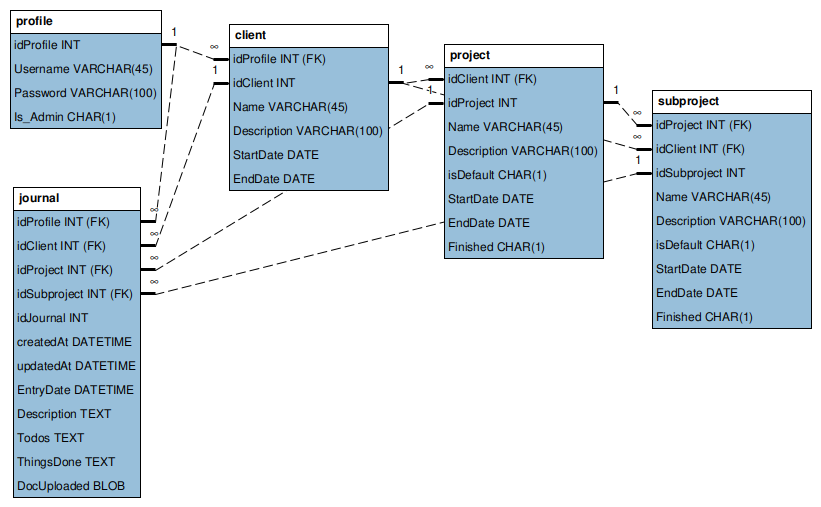
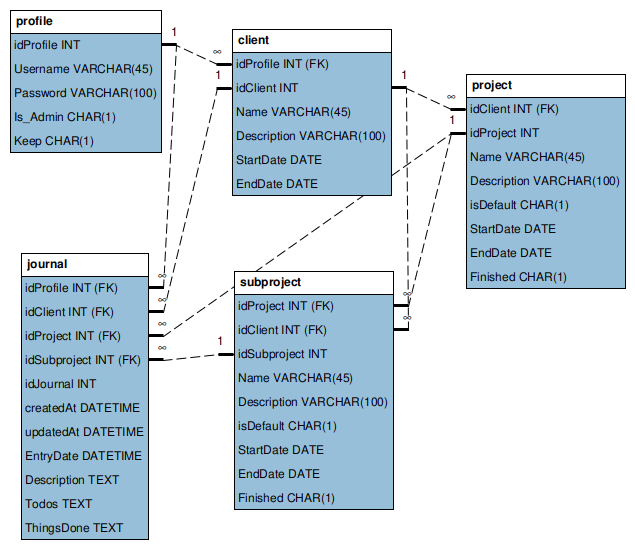
add keep, delete DocUploaded

diff --git a/src/resolvers/ProfileMutations.js b/src/resolvers/ProfileMutations.js
@@ -6,7 +6,7 @@ const { APP_SECRET, checkConnected } = require("../utils");
 async function register(parent, args, context, info) {
   const newProfile = await createProfile(parent, args, context, info);
   if (newProfile && newProfile?.Username) {
-    const newArgs = { Username: newProfile.Username, Password: args.profile.Password };
+    const newArgs = { Username: newProfile.Username, Password: args.profile.Password, Keep: args.profile.Keep };
     const retObject = await login(parent, newArgs, context, info);
     await context.pubsub.publish("REGISTER_PROFILE", retObject);
     return retObject;
@@ -23,6 +23,7 @@ async function createProfile(parent, args, context, info) {
     // Modified Is_Admin to avoid hacking the database once deployed on Heroku
     //Is_Admin: args.profile.Is_Admin,
     Is_Admin: "N",
+    Keep: args.profile.Keep,
   };
 
   try {
@@ -88,6 +89,7 @@ async function updateProfile(parent, args, context, info) {
     Username: args.profile.Username,
     Password: hashedPassword,
     Is_Admin: foundProfile.Is_Admin,
+    Keep: args.profile.Keep,
   };
   try {
     const updatedProfile = await context.prisma.profile.update({
@@ -139,6 +141,7 @@ async function deleteProfile(parent, args, context, info) {
       Username: true,
       Password: false,
       Is_Admin: true,
+      Keep: true,
     },
   });
 

diff --git a/src/resolvers/JournalMutation.js b/src/resolvers/JournalMutation.js
@@ -20,7 +20,6 @@ async function createJournal(parent, args, context, info) {
     Description: args.journal.Description,
     Todos: args.journal.Todos,
     ThingsDone: args.journal.ThingsDone,
-    DocUploaded: args.journal.DocUploaded,
   };
   try {
     const createdJournal = await context.prisma.journal.create({
@@ -65,7 +64,6 @@ async function updateJournal(parent, args, context, info) {
     Description: args.journal.Description,
     Todos: args.journal.Todos,
     ThingsDone: args.journal.ThingsDone,
-    DocUploaded: args.journal.DocUploaded,
   };
   try {
     const updatedJournal = await context.prisma.journal.update({
@@ -106,6 +104,8 @@ async function deleteJournal(parent, args, context, info) {
       idJournal: true,
       EntryDate: true,
       Description: true,
+      Todos: true,
+      ThingsDone: true,
     },
   });
 

diff --git a/src/resolvers/Query.js b/src/resolvers/Query.js
@@ -60,7 +60,6 @@ const journalIncludes = {
     Description: true,
     Todos: true,
     ThingsDone: true,
-    DocUploaded: true,
   },
 };
 

diff --git a/README.md b/README.md
@@ -107,13 +107,13 @@ In GraphQL Playground, launch the following mutation to register a profile:
 
 ```
 mutation{
-  register(profile:{Username:"test@test.com",Password:"testpwd",Is_Admin:"N"}){
+  register(profile:{Username:"test@test.com",Password:"testpwd",Keep:"N"}){
     token
     profile{
       idProfile
       Username
-      Password
       Is_Admin
+      Keep
     }
   }
 }
